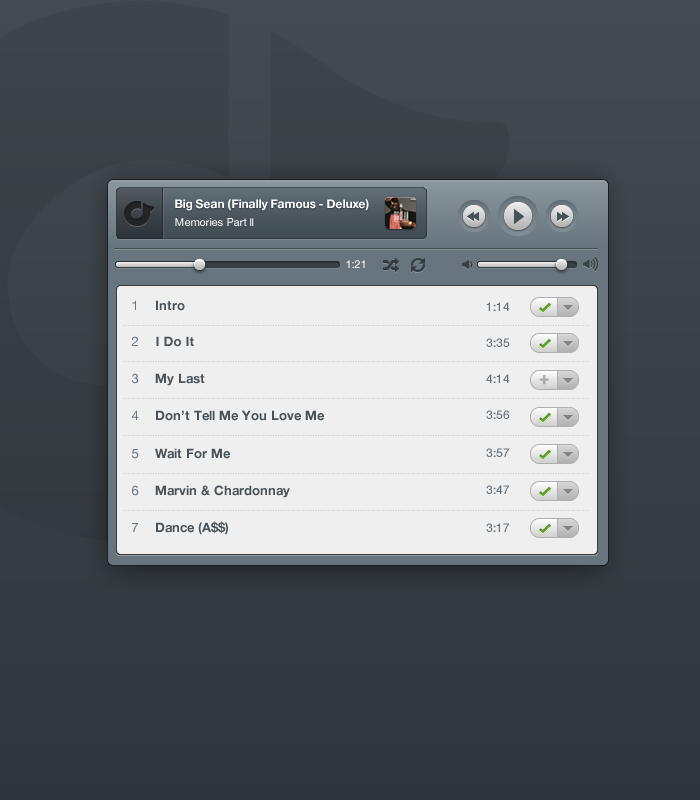
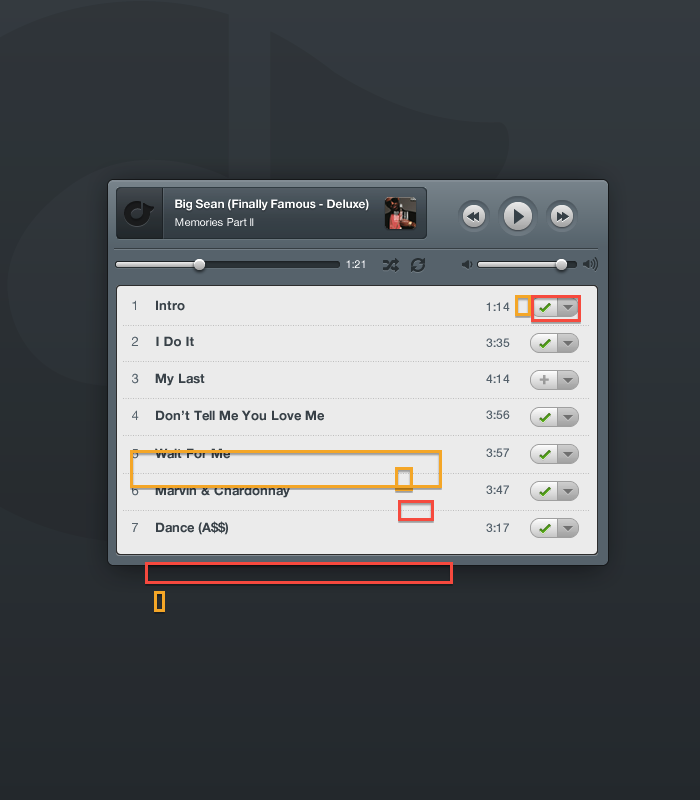
Added styles to songLines

Changed region(s): [[0.18, 0.5625, 0.63, 0.6562], [0.21, 0.6875, 0.66, 0.7812], [0.72, 0.3438, 0.84, 0.4062]]

diff --git a/index.html b/index.html
@@ -59,39 +59,60 @@
                 <div class="songList">
                     <ol class="trackList">
                         <li class="songLine">
-                            <span class="trackName">Intro</span>
-                            <span class="length">1:14</span>
-                            <span class="added"></span>
+                            <div class="trackName">Intro</div>
+                            <div class="length">1:14</div>
+                            <div class="add">
+                               <div class="added"></div>
+                               <div class="addOption"></div>
+                            </div>
                         </li>
                         <li class="songLine">
-                            <span class="trackName">I Do It</span>
-                            <span class="length">3:35</span>
-                            <span class="added"></span>
+                            <div class="trackName">I Do It</div>
+                            <div class="length">3:35</div>
+                            <div class="add">
+                               <div class="added"></div>
+                               <div class="addOption"></div>
+                            </div>
                         </li>
                         <li class="songLine">
-                            <span class="trackName">My Last</span>
-                            <span class="length">4:14</span>
-                            <span class="add"></span>
+                            <div class="trackName">My Last</div>
+                            <div class="length">4:14</div>
+                            <div class="add">
+                               <div class="added"></div>
+                               <div class="addOption"></div>
+                            </div>
                         </li>
                          <li class="songLine">
-                            <span class="trackName">Don't Tell Me You Love Me</span>
-                            <span class="length">3:56</span>
-                            <span class="added"></span>
+                            <div class="trackName">Don't Tell Me You Love Me</div>
+                            <div class="length">3:56</div>
+                            <div class="add">
+                               <div class="added"></div>
+                               <div class="addOption"></div>
+                            </div>
                         </li>
                          <li class="songLine">
-                            <span class="trackName">Wait For Me</span>
-                            <span class="length">3:57</span>
-                            <span class="added"></span>
+                            <div class="trackName">Wait For Me</div>
+                            <div class="length">3:57</div>
+                            <div class="add">
+                               <div class="added"></div>
+                               <div class="addOption"></div>
+                            </div>
                         </li>
                          <li class="songLine">
-                            <span class="trackName">Marvin &amp; Chardonnay</span>
-                            <span class="length">3:47</span>
-                            <span class="added"></span>
+                            <div class="trackName">Marvin &amp; Chardonnay</div>
+                            <div class="length">3:47</div>
+                            <div class="add">
+                               <div class="added"></div>
+                               <div class="addOption"></div>
+                            </div>
                         </li>
                          <li class="songLine">
-                            <span class="trackName">Dance (A$$)</span>
-                            <span class="length">3:17</span>
-                            <span class="added"></span>
+                            <div class="trackName">Dance (A$$)</div>
+                            <div class="length">3:17</div>
+                            <div class="add">
+                               <div class="added"></div>
+                               <div class="addOption"></div>
+                            </div>
                         </li>
                     </ol>
                 </div>

diff --git a/css/main.css b/css/main.css
@@ -24,6 +24,7 @@ textarea {
 
 body {
     background: rgb(50, 56, 61);
+    font-family: helvetica, sans-serif;
 }
 
 .playerWrapper {
@@ -149,12 +150,18 @@ section {
 .trackList {
     counter-reset: item;
     list-style-type: none;
-    padding-left: 13px;
+    margin: 0;
+}
+ol {
+    padding: 0;
 }
 
 li:before {
     content: counter(item) " ";
     counter-increment: item;
+    color: #67747E;
+    font-size: 12px;
+    font-weight: 100;
 }
 
 .songList {
@@ -170,12 +177,37 @@ li:before {
 
 .songLine {
     border-bottom: 1px dotted #C7C7C7;
+    font-size: 13px;
+    font-weight: normal;
+    padding: 7px;
 }
 
 .trackName {
-    margin-left: 13px;
+    display: inline-block;
+    width: 310px;
+    color: #444E55;
+    font-size: 13px;
+    font-weight: bold;
+    letter-spacing: .7px;
+    margin-left: 14px;
 }
 
+.length {
+    display: inline-block;
+    width: 30px;
+    color: #67747E;
+    font-size: 12px;
+    font-weight: 100;
+}
+
+.add {
+    display: inline-block;
+    width: 50px;
+    height: 20px;
+    border: 1px solid #AFAFAF;
+    border-radius: 10px;
+    margin-left: 13px;
+}
 /*
  * Remove text-shadow in selection highlight: h5bp.com/i
  * These selection rule sets have to be separate.
